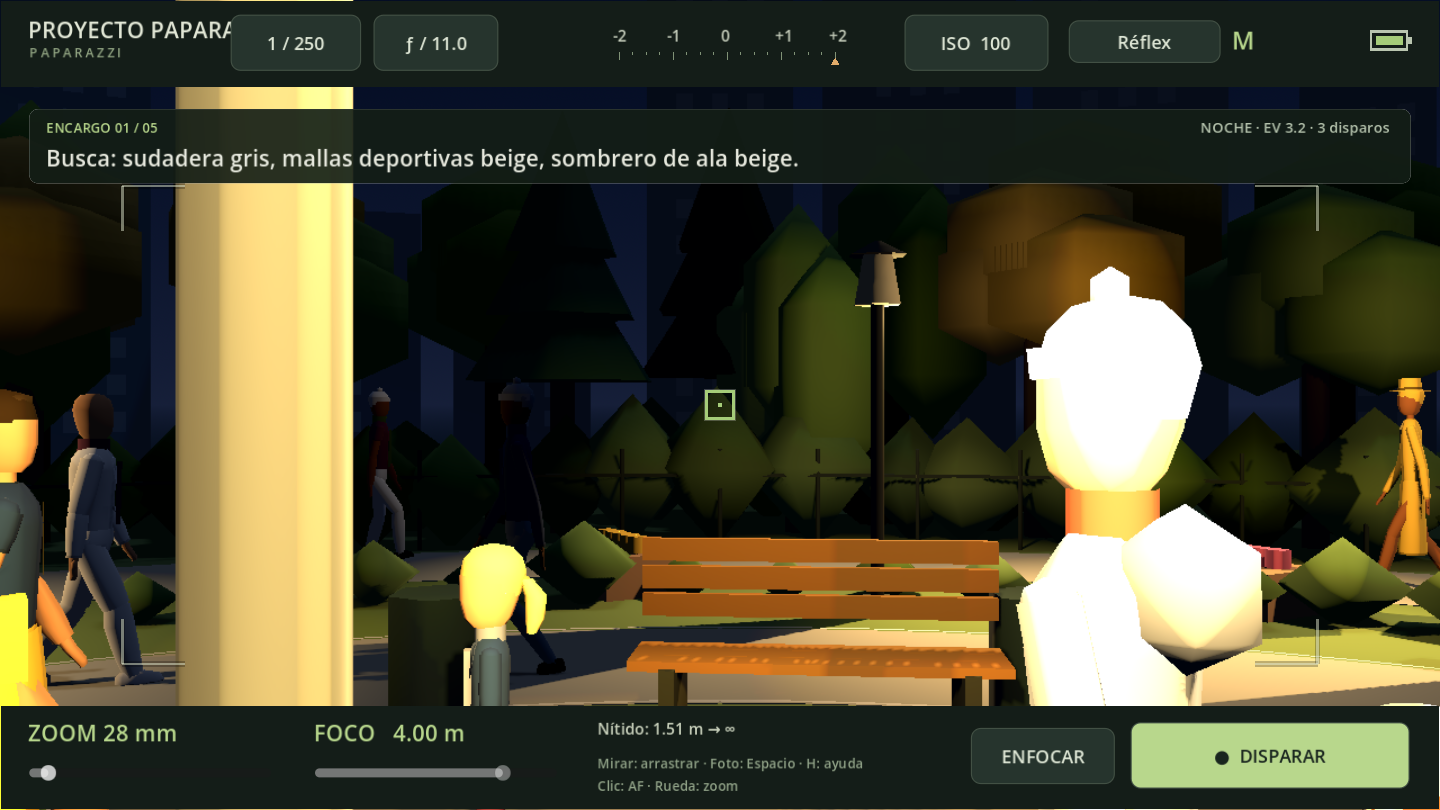
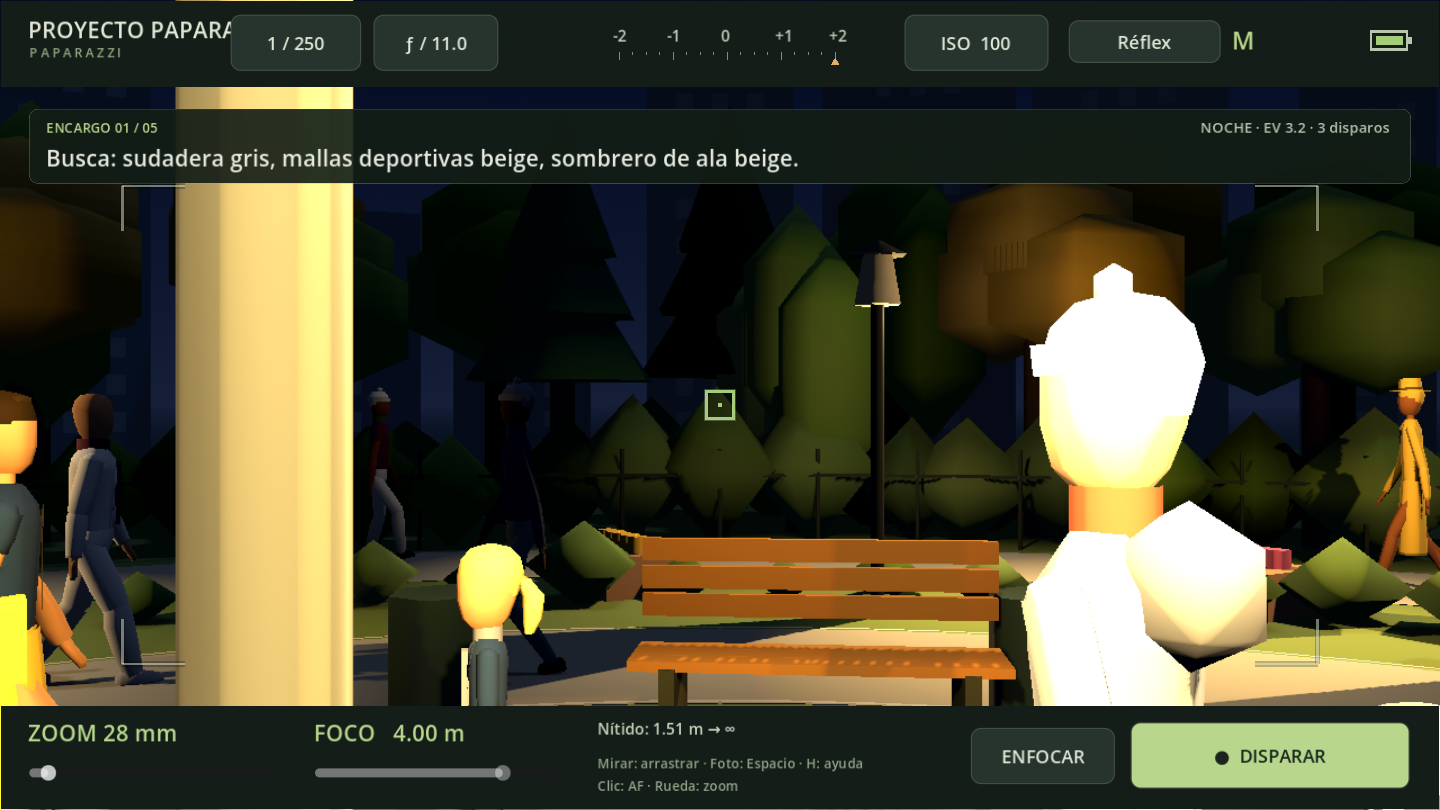
personajes: oclusión en colores de vértice y hojas de revisión de frente
- person.gd::occlusion(): al combinar la malla, cada vértice oscurece su
  color de zona hasta un 40 % en caras hacia abajo, caras interiores de
  brazos y muslos y cerca del suelo. Da volumen sin coste de render.
- capture_evidence.gd: las capturas de estudio (prendas, cabezas,
  accesorios y lineup) salían de espaldas porque los personajes miran a
  -Z y la cámara estaba en +Z; ahora se giran 180°. El lineup usa un
  campo de visión de 30° para llenar el encuadre y hay una hoja nueva de
  vistas (frente, 3/4, perfil y espalda) de dos personajes.
- build_sheets.py: las etiquetas de prendas, cabezas y accesorios se
  leen de catalogo.json; estaban escritas a mano y cruzadas (p. ej.
  "Falda" mostraba unas bermudas y "Mochila" una bufanda).
- test_art.gd: límites de la oclusión (624 comprobaciones de prendas).
- Evidencias regeneradas y comparativas antes/después.

Claude-Session: https://claude.ai/code/session_01Lr8koPPvX8LxbWmfPsiWHa

diff --git a/tools/build_sheets.py b/tools/build_sheets.py
@@ -1,10 +1,15 @@
 #!/usr/bin/env python3
-import os, sys, glob, subprocess
+import os, sys, glob, subprocess, json
 from PIL import Image, ImageDraw, ImageFont
 
 BASE_DIR = os.path.abspath(os.path.join(os.path.dirname(__file__), ".."))
 DOCS_EVIDENCIAS = os.path.join(BASE_DIR, "docs", "evidencias")
 SCRATCH_DIR = os.path.join(DOCS_EVIDENCIAS, "scratch")
+
+def catalog_labels(slot):
+    with open(os.path.join(BASE_DIR, "data", "catalogo.json"), encoding="utf-8") as f:
+        pieces = json.load(f)["piezas"][slot]
+    return [p["etiqueta"][:1].upper() + p["etiqueta"][1:] for p in pieces]
 
 def get_font(size, bold=True):
     name = "DejaVuSans-Bold.ttf" if bold else "DejaVuSans.ttf"
@@ -130,7 +135,7 @@ Colección completa de torsos (camisetas, polos, chaquetas formales, ropa técni
 ![Sheet Prendas](sheets/sheet_prendas.png)
 
 ### 2.4 Accesorios y Peinados
-Peinados morfológicos masculinos, femeninos e infantiles, sombreros, gorras visera, gorros de lana, mochilas de tirantes, bandoleras y bolsos cruzados.
+Peinados (pelo corto, flequillo, melena, coleta y calvo), gorra, sombrero de ala, gorro de lana, bufanda y bandolera.
 
 ![Sheet Accesorios](sheets/sheet_accesorios.png)
 
@@ -146,6 +151,8 @@ Cuerpos de cámara (compacta digital, telemétrica analógica, réflex monocular
 Comprobación de la coherencia anatómica de los **4 somatotipos base** (Estándar, Delgado, Robusto, Infantil), el rig universal de 20 huesos y las combinaciones de vestimenta formal, de paseo y deportiva exclusiva (`sport: true`).
 
 ![Line-up de Personajes](personajes/personajes_lineup.png)
+
+![Vistas de revisión](personajes/personajes_vistas.png)
 
 ---
 
@@ -196,8 +203,9 @@ def main():
     create_grid(veg_items, 3, 260, 240, "Hoja de Contacto: Flora y Vegetación", "Masa vegetal densa perimetral y sotobosque procedural de bajo coste geométrico", os.path.join(sheets_dir, "sheet_vegetacion.png"))
 
     # 3. Prendas
-    torso_labels = ["Camiseta Básica", "Camisa Formal", "Chaqueta / Americana", "Jersey / Sudadera", "Camiseta Running (Sport)"]
-    legs_labels = ["Pantalón de Vestir", "Vaqueros Rectos", "Falda Clásica", "Bermudas Casual", "Pantalón Chándal", "Short Running (Sport)"]
+    # Labels come from the catalogue in capture order, so they cannot drift from the rendered pieces.
+    torso_labels = catalog_labels("torso")
+    legs_labels = catalog_labels("piernas")
     garment_items = []
     for i, lbl in enumerate(torso_labels):
         garment_items.append({"path": f"{SCRATCH_DIR}/torso_{i}.png", "label": f"Torso: {lbl}"})
@@ -206,8 +214,8 @@ def main():
     create_grid(garment_items, 4, 230, 220, "Hoja de Contacto: Catálogo de Prendas", "Geometría de vestimenta pesada rígidamente sobre el rig universal de 20 huesos", os.path.join(sheets_dir, "sheet_prendas.png"))
 
     # 4. Accesorios y Cabezas
-    head_labels = ["Pelo Corto", "Media Melena", "Melena Larga", "Pelo Ondulado", "Calva", "Gorra Deportiva", "Sombrero Clásico", "Gorro de Lana"]
-    acc_labels = ["Sin Accesorio", "Mochila Espalda", "Bolso Bandolera"]
+    head_labels = catalog_labels("cabeza")
+    acc_labels = catalog_labels("accesorio")
     acc_items = []
     for i, lbl in enumerate(head_labels):
         acc_items.append({"path": f"{SCRATCH_DIR}/head_{i}.png", "label": f"Cabeza: {lbl}"})
@@ -225,6 +233,13 @@ def main():
         {"path": f"{SCRATCH_DIR}/equip_carrete_35mm.png", "label": "Película 35mm ISO 400"}
     ]
     create_grid(equip_items, 3, 260, 240, "Hoja de Contacto: Equipamiento y Ópticas", "Cuerpos de cámara con sus respectivos visores ópticos, aperturas y soportes analógicos", os.path.join(sheets_dir, "sheet_equipamiento.png"))
+
+    # 6. Vistas de revisión de personajes
+    view_items = []
+    for key, name in [("estandar", "Adulto estándar"), ("robusto", "Adulto robusto")]:
+        for view, label in [("frente", "frente"), ("tres_cuartos", "3/4"), ("perfil", "perfil"), ("espalda", "espalda")]:
+            view_items.append({"path": f"{SCRATCH_DIR}/vista_{key}_{view}.png", "label": f"{name} · {label}"})
+    create_grid(view_items, 4, 260, 420, "Vistas de Revisión de Personajes", "Frente, 3/4, perfil y espalda para revisar uniones, siluetas y prendas", os.path.join(DOCS_EVIDENCIAS, "personajes", "personajes_vistas.png"))
 
     # GIFs
     build_gif(f"{SCRATCH_DIR}/walk_*.png", os.path.join(anim_dir, "anim_caminar.gif"), fps=30)

diff --git a/docs/TESTS_Y_VERIFICACION.md b/docs/TESTS_Y_VERIFICACION.md
@@ -34,7 +34,7 @@ xvfb-run -a -s "-screen 0 1440x900x24" godot-4 --audio-driver Dummy --path . --s
 | Suite | Comando | Qué valida | Línea de salida |
 |---|---|---|---|
 | **Óptica y determinismo** | `godot-4 --headless --path . --script tests/test_photography.gd` | CoC, profundidad de campo, error de EV, puntuación y determinismo (la misma evidencia da la misma nota) | `TESTS: N checks, N failures` |
-| **Arte y mallas** | `godot-4 --headless --path . --script tests/test_art.gd` | Ensambla todas las combinaciones del catálogo en los 4 perfiles: ≤ 1.900 triángulos por viandante, 20 huesos, pesos rígidos. Además revisa las piezas: calzado con zona de color propia, muslo que rellena el asiento del pantalón (y no asoma bajo la falda), hombro no más ancho que la manga, falda más ancha que los muslos, visera de gorra solo hacia delante y color de zapato determinista | `ART TESTS: N assemblies, maximum N triangles/person, N failures` y `GARMENT CHECKS: N checks, N failures` |
+| **Arte y mallas** | `godot-4 --headless --path . --script tests/test_art.gd` | Ensambla todas las combinaciones del catálogo en los 4 perfiles: ≤ 1.900 triángulos por viandante, 20 huesos, pesos rígidos. Además revisa las piezas: calzado con zona de color propia, muslo que rellena el asiento del pantalón (y no asoma bajo la falda), hombro no más ancho que la manga, falda más ancha que los muslos, visera de gorra solo hacia delante, color de zapato determinista y oclusión de vértices acotada | `ART TESTS: N assemblies, maximum N triangles/person, N failures` y `GARMENT CHECKS: N checks, N failures` |
 | **Equipo** | `godot-4 --headless --path . --script tests/test_equipment.gd` | Cuerpos, objetivos, diafragmas, modos AF/MF, carrete, lectura de EV y rayos de oclusión | `EQUIPMENT TESTS: N checks, N failures` |
 | **Marcha** | `godot-4 --headless --path . --script tests/test_gait.gd` | Pie de apoyo sin deslizamiento y suela a $y = 0$ en marcha y carrera | `GAIT TESTS: N checks, N failures, min sole y …, max contact drift …` |
 
@@ -69,7 +69,7 @@ Se pasan tras `--` (`godot-4 --path . -- <opción>`):
 | Herramienta | Comando | Función |
 |---|---|---|
 | `run_evidence.sh` | `./tools/run_evidence.sh` | Orquesta la suite de evidencias gráficas: ejecuta `capture_evidence.gd` y después `build_sheets.py`. Requiere display. |
-| `capture_evidence.gd` | `godot-4 --path . --script tools/capture_evidence.gd` | Renderiza estados del juego, assets y fotogramas de animación en `docs/evidencias/scratch/`. |
+| `capture_evidence.gd` | `godot-4 --path . --script tools/capture_evidence.gd` | Renderiza estados del juego, assets, el lineup y las vistas de revisión de personajes (frente, 3/4, perfil y espalda) y fotogramas de animación en `docs/evidencias/scratch/`. |
 | `build_sheets.py` | `python3 tools/build_sheets.py` | Monta hojas de assets, GIFs y [`docs/evidencias/GALERIA.md`](evidencias/GALERIA.md). Requiere Pillow y `ffmpeg` en el `PATH` (sin él fallan los GIFs; `pip install imageio-ffmpeg` trae un binario). |
 | `build_catalog.py` | `python3 tools/build_catalog.py` | Regenera `data/catalogo.json` y `data/piezas/`. |
 | `preview_people.gd` | `godot-4 --path . --script tools/preview_people.gd` | Visor interactivo de vestuario y perfiles anatómicos. |
@@ -86,7 +86,7 @@ Medidas el **2026-09-26** con **Godot 4.7-stable** (Linux; suites con display ba
 | Comprobaciones de óptica | 535, 0 fallos | 0 fallos | `test_photography.gd` |
 | Ensamblajes de personajes | 2.880, 0 fallos | 0 fallos | `test_art.gd` |
 | Triángulos por viandante (**máximo** del catálogo) | 1.582 | ≤ 1.900 | `test_art.gd` |
-| Comprobaciones de prendas | 422, 0 fallos | 0 fallos | `test_art.gd` |
+| Comprobaciones de prendas | 624, 0 fallos | 0 fallos | `test_art.gd` |
 | Comprobaciones de equipo | 543, 0 fallos | 0 fallos | `test_equipment.gd` |
 | Comprobaciones de marcha | 8.840, 0 fallos | 0 fallos | `test_gait.gd` |
 | Deriva máxima del pie de apoyo | 0.000000 m/fotograma | 0 | `test_gait.gd` |

diff --git a/docs/PERSONAJES_Y_CINEMATICA.md b/docs/PERSONAJES_Y_CINEMATICA.md
@@ -77,13 +77,14 @@ Cada personaje combina múltiples prendas (torso, pantalones/falda, peinado, cal
      | `acento` | Blanco roto fijo (zapatillas y franjas deportivas) |
      | `calzado` | `tonos_calzado` (negro, marrón, blanco, gris) |
 
+   - **Oclusión ambiental precalculada** (`person.gd::occlusion()`): al combinar la malla, cada vértice oscurece el color de su zona hasta un 40 % según tres términos: caras que miran hacia abajo, caras interiores de brazos y muslos (que miran al eje del cuerpo) y cercanía al suelo. Da volumen a las zonas de color planas sin coste de render ni texturas.
    - **Calzado**: el color se deriva de los rasgos con un hash (`Person.shoe_color()`), **sin consumir el generador aleatorio**, para no alterar el reparto de encargos ni la navegación, y para que el retrato del encargo coincida con el viandante. El pantalón de vestir solo lleva negro o marrón. No forma parte de los predicados de los encargos.
 4. **Uniones sin huecos** (verificado en `test_art.gd`, "GARMENT CHECKS"):
    - **Cadera**: el asiento del pantalón (`caderas`) tiene aberturas laterales elevadas para las piernas; en pantalones y shorts el muslo continúa $0.075 \cdot NZ$ por encima de la articulación para rellenarlas. En falda no se prolonga (asomaría por la cintura) y la falda es más ancha arriba para cubrir los muslos.
    - **Hombros**: la esfera del hombro no es más ancha que la manga y usa 3 anillos (`person.gd::ellipsoid()`), para que no forme una hombrera ni un pico.
    - **Cabeza**: el casquete del pelo es un *loft* de 10 segmentos (antes se generaba con 8 mientras el código de la línea frontal y del recorte suponía 10, lo que dejaba picos dentados). La gorra tiene copa propia cerrada y una visera curva que solo sale hacia delante (`visor_mesh()` en `build_catalog.py`); antes era un aro que atravesaba la cabeza y de frente parecía un halo.
    - La falda es más ancha que los muslos a la altura de la cadera (`test_art.gd` lo mide) para que no asomen por los lados.
-   - Comparativas antes/después de estas correcciones: [general](evidencias/comparativas/uniones_calzado_1_general.png), [cadera](evidencias/comparativas/uniones_calzado_2_cadera.png), [en movimiento](evidencias/comparativas/uniones_calzado_3_movimiento.png), [hombros](evidencias/comparativas/uniones_calzado_4_hombros.png) y [calzado](evidencias/comparativas/uniones_calzado_5_calzado.png). Cabeza y proporciones: [gorra](evidencias/comparativas/cabeza_1_gorra.png), [pelo](evidencias/comparativas/cabeza_2_pelo.png), [proporciones](evidencias/comparativas/proporciones_1_general.png) y [proporciones en movimiento](evidencias/comparativas/proporciones_2_movimiento.png).
+   - Comparativas antes/después de estas correcciones: [general](evidencias/comparativas/uniones_calzado_1_general.png), [cadera](evidencias/comparativas/uniones_calzado_2_cadera.png), [en movimiento](evidencias/comparativas/uniones_calzado_3_movimiento.png), [hombros](evidencias/comparativas/uniones_calzado_4_hombros.png) y [calzado](evidencias/comparativas/uniones_calzado_5_calzado.png). Cabeza y proporciones: [gorra](evidencias/comparativas/cabeza_1_gorra.png), [pelo](evidencias/comparativas/cabeza_2_pelo.png), [proporciones](evidencias/comparativas/proporciones_1_general.png) y [proporciones en movimiento](evidencias/comparativas/proporciones_2_movimiento.png). Sombreado y revisión: [oclusión](evidencias/comparativas/sombreado_1_oclusion.png), [lineup](evidencias/comparativas/revision_1_lineup.png) y [hoja de prendas](evidencias/comparativas/revision_2_prendas.png).
 5. **Presupuesto Geométrico**:
    - Límite máximo: **1.900 triángulos por viandante** (`test_art.gd`).
    - Valor medido actual (máximo del catálogo): ver [TESTS_Y_VERIFICACION.md §5](TESTS_Y_VERIFICACION.md).

diff --git a/docs/futuro/02_ESTILO_VISUAL_Y_POLIGONOS.md b/docs/futuro/02_ESTILO_VISUAL_Y_POLIGONOS.md
@@ -37,7 +37,7 @@ A continuación se evalúa la distancia entre el estado actual del código/motor
 | Dimensión Técnica | Estado Actual en el Repositorio | Objetivo según `referencia.jpg` | Distancia / Brecha Técnica | Esfuerzo Estimado |
 |---|---|---|:---:|:---:|
 | **Modelado de Personajes** | 4 anatomías con secciones elípticas unidas (*lofts*) de normales suaves y pesaje rígido (`tools/build_catalog.py`). Uniones de cadera y hombro sin huecos, calzado con zona de color propia (ver [PERSONAJES_Y_CINEMATICA.md §3](../PERSONAJES_Y_CINEMATICA.md)). Cabezas algo mayores (1:7 en el adulto estándar) y piernas con más volumen; las extremidades siguen facetadas (6 lados). | Maniquíes de madera articulados con rótulas esféricas visibles, torso torneado y prendas de ropa modeladas sobre el maniquí. | **Media-Alta** | Sustituir las mallas base en `data/piezas/` por geometrías de maniquí de madera con esferas de articulación. |
-| **Sombreado y Render** | `StandardMaterial3D` con iluminación difusa continua Lambert/PBR rugoso (`gl_compatibility`). Sin bordes. | **Cell Shading / Toon Shading** con cuantización de luz en 2 bandas y delineado exterior (*ink outline*). | **Media** | Crear un shader de material con función `light()` toon y pase de contorno `next_pass` (*inverted hull*). Compatible con WebGL/GLES3. |
+| **Sombreado y Render** | `StandardMaterial3D` con iluminación difusa continua Lambert/PBR rugoso (`gl_compatibility`) y oclusión ambiental precalculada en los colores de vértice. Sin bordes. | **Cell Shading / Toon Shading** con cuantización de luz en 2 bandas y delineado exterior (*ink outline*). | **Media** | Crear un shader de material con función `light()` toon y pase de contorno `next_pass` (*inverted hull*). Compatible con WebGL/GLES3. |
 | **Animación y Actitudes** | Solo locomoción cíclica procedural analítica básica (`gait.gd`), sin pausas, sin variedad de marcha, bancos vacíos. | **Locomoción orgánica multicapa** (varios estilos de marcha/carrera) y **banco rico de actitudes urbanas** (bancos habitados, charlas, móvil, fotos) con **Quaternius UAL 1 & 2**. | **Media** | Retargetear el banco libre CC0 de Quaternius al rig universal de 20 huesos y combinarlo en capas con `gait.gd` (cero deslizamiento). |
 | **Planos de Profundidad** | 4 carriles concéntricos básicos ($r \in [1.8, 11.5]\text{ m}$) sin capas intermedias ni primer plano de enmarcado. | **7+ capas continuas de profundidad**: de enmarcado frontal a skyline atmosférico lejano. | **Media** | Reorganizar las cotas radiales en `park.gd` y segmentar los carriles en capas de atrezo, acción y fondo. |
 | **Población y Multitudes** | 21 viandantes exactos (`counts = [3, 7, 6, 5]`). **Todos son 100% jugables** y reciben raycasts fotográficos en cada disparo. | Población dividida en **dos capas**: (1) Peatones jugables (objetivos) y (2) **Multitud de fondo / ambientación** no jugable (estudiantes, personas sentadas). | **Media** | Desacoplar la lista de personajes en `main.gd`: viandantes jugables en calzada vs actores estáticos/ambientales en bancos y parque interior. |

diff --git a/docs/futuro/08_CAPTURA_AUTOMATICA_DE_EVIDENCIAS.md b/docs/futuro/08_CAPTURA_AUTOMATICA_DE_EVIDENCIAS.md
@@ -83,6 +83,8 @@ graph LR
 
 ### 3.3 Muestrario de Personajes Representativos (`personajes_lineup.png`)
 
+> **Estado actual**: el lineup muestra 6 personajes **de frente** con un campo de visión de 30° para que ocupen el encuadre, y `personajes_vistas.png` añade frente, 3/4, perfil y espalda de dos personajes para revisar uniones y siluetas. Hasta la revisión de 2026-09 todas las capturas de estudio (prendas, cabezas, accesorios y lineup) salían de espaldas, porque los personajes miran a −Z y la cámara del estudio está en +Z; ahora se giran 180°. Las etiquetas de las hojas se leen de `catalogo.json` en lugar de estar escritas a mano.
+
 Generación de una imagen panorámica de alta resolución con una selección representativa de personajes del casting del juego, demostrando la consistencia del rig universal de 20 huesos, el coloreado por vértice (`ARRAY_COLOR`) y las reglas de combinación:
 
 1. **Los 4 Perfiles Anatómicos Base**: Maniquíes de referencia (Estándar, Delgado, Robusto e Infantil) con atuendos neutros para verificar proporciones y pesaje rígido.
@@ -141,7 +143,10 @@ docs/
 │   │   └── sheet_equipamiento.png
 │   │
 │   ├── personajes/              # 3. Elenco representativo
-│   │   └── personajes_lineup.png
+│   │   ├── personajes_lineup.png
+│   │   └── personajes_vistas.png   # frente, 3/4, perfil y espalda
+│   │
+│   ├── comparativas/            # Antes/después de correcciones visuales (a mano, no las genera la suite)
 │   │
 │   └── animaciones/             # 4. GIFs animados de cinemática
 │       ├── anim_caminar.gif

diff --git a/docs/evidencias/GALERIA.md b/docs/evidencias/GALERIA.md
@@ -41,7 +41,7 @@ Colección completa de torsos (camisetas, polos, chaquetas formales, ropa técni
 ![Sheet Prendas](sheets/sheet_prendas.png)
 
 ### 2.4 Accesorios y Peinados
-Peinados morfológicos masculinos, femeninos e infantiles, sombreros, gorras visera, gorros de lana, mochilas de tirantes, bandoleras y bolsos cruzados.
+Peinados (pelo corto, flequillo, melena, coleta y calvo), gorra, sombrero de ala, gorro de lana, bufanda y bandolera.
 
 ![Sheet Accesorios](sheets/sheet_accesorios.png)
 
@@ -57,6 +57,8 @@ Cuerpos de cámara (compacta digital, telemétrica analógica, réflex monocular
 Comprobación de la coherencia anatómica de los **4 somatotipos base** (Estándar, Delgado, Robusto, Infantil), el rig universal de 20 huesos y las combinaciones de vestimenta formal, de paseo y deportiva exclusiva (`sport: true`).
 
 ![Line-up de Personajes](personajes/personajes_lineup.png)
+
+![Vistas de revisión](personajes/personajes_vistas.png)
 
 ---
 
